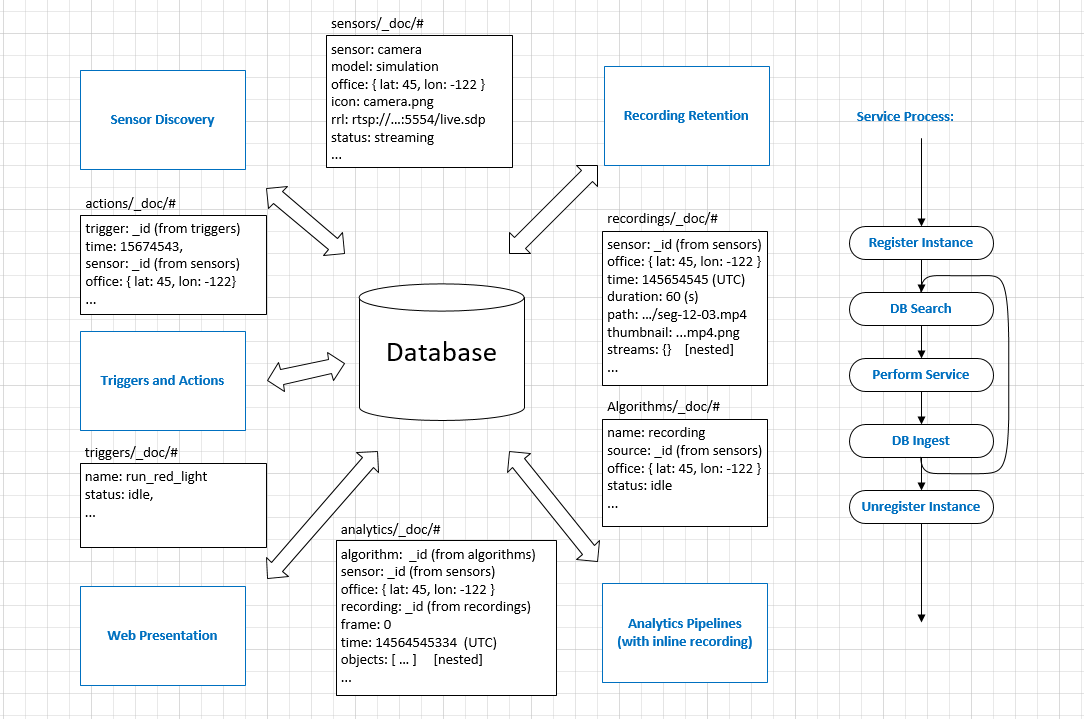
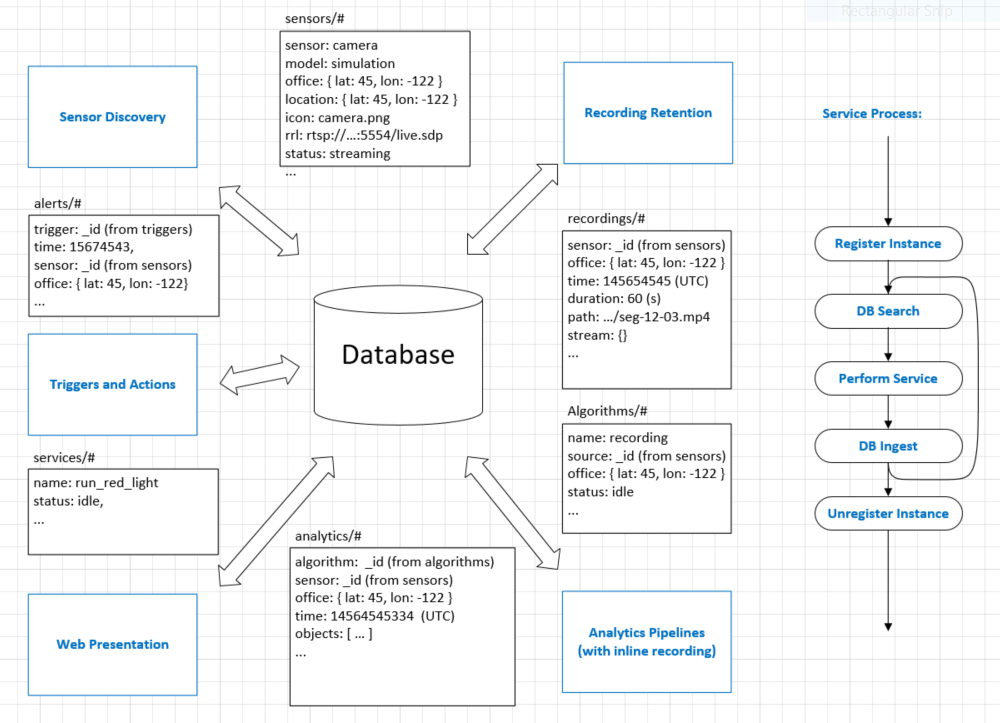
rename triggers to services so that cleanup and where-indexing can be listed

diff --git a/web/cloud/html/js/office.js b/web/cloud/html/js/office.js
@@ -40,26 +40,26 @@ $("#pg-office").on(":initpage", function(e, queries, office) {
 
     };
 
-    /* setup the trigger table */
-    var updateTrigger=function () {
+    /* setup the service table */
+    var updateService=function () {
         if (!page.is(":visible")) return;
 
-        /* fill the trigger table */
-        apiHost.search("triggers","name:*",office).then(function (data) {
-            var tbody=page.find("[trigger-table] tbody");
+        /* fill the service table */
+        apiHost.search("services","name:*",office).then(function (data) {
+            var tbody=page.find("[service-table] tbody");
             tbody.empty();
             $.each(data.response,function (i,v) {
-                var line=$("<tr><td>"+v._source.name+"</td><td>"+v._id+"</td><td>"+v._source.status+"</td></tr>");
+                var line=$("<tr><td>"+v._source.name+"</td><td>"+v._source.service+"</td><td>"+v._id+"</td><td>"+v._source.status+"</td></tr>");
                 tbody.append(line);
             });
 
             if (page.data('timer2')) clearTimeout(page.data('timer2'));
-            page.data('timer2',setTimeout(updateTrigger,settings.trigger_update()));
+            page.data('timer2',setTimeout(updateService,settings.service_update()));
         }).catch(function (e) {
             $("[hint-panel]").trigger(":error", [e.statusText]);
         });
     }; 
-    updateTrigger();
+    updateService();
 
     /* enable recording queries */
     search.data('index',index).data('office',office).data('invoke',updateAlgos).val(queries).focus().trigger($.Event("keydown",{keyCode:13}));

diff --git a/web/cloud/html/js/header.js b/web/cloud/html/js/header.js
@@ -12,9 +12,9 @@ var settings={
         if (typeof(val)!="undefined") $("#analyticsUpdate").val(val);
         return parseFloat($("#analyticsUpdate").val());
     },
-    trigger_update: function (val) {
-        if (typeof(val)!="undefined") $("#triggerUpdate").val(val);
-        return parseFloat($("#triggerUpdate").val());
+    service_update: function (val) {
+        if (typeof(val)!="undefined") $("#serviceUpdate").val(val);
+        return parseFloat($("#serviceUpdate").val());
     },
     frame_duration: function (val) {
         if (typeof(val)!="undefined") $("#frameDuration").val(val);

diff --git a/maintenance/cleanup/db_ingest.py b/maintenance/cleanup/db_ingest.py
@@ -1,0 +1,51 @@
+#!/usr/bin/python3
+
+import requests
+import json
+
+class DBIngest(object):
+    def __init__(self, index, office, host):
+        super(DBIngest,self).__init__()
+        self._host=host
+        if isinstance(office,list): office='$'+('$'.join(map(str,office)))
+        self._index=index+office
+        self._type="_doc"
+
+    def _check_error(self, r):
+        if r.status_code==200 or r.status_code==201: return
+        try:
+            reason=r.json()["error"]["reason"]
+        except:
+            r.raise_for_status()
+        raise Exception(reason)
+
+    def ingest_bulk(self, bulk, batch=500):
+        ''' save bulk data to the database
+            bulk: list of bulk data
+        '''
+        while bulk:
+            cmds=[]
+            for b in bulk[0:batch]:
+                cmds.append({"index":{"_index":self._index,"_type":self._type}})
+                cmds.append(b)
+            bulk=bulk[batch:]
+                
+            cmds="\n".join([json.dumps(x) for x in cmds])+"\n"
+            r=requests.post(self._host+"/_bulk",data=cmds,headers={"content-type":"application/x-ndjson"})
+            self._check_error(r)
+        
+    def ingest(self, info, id1=None):
+        r=requests.put(self._host+"/"+self._index+"/"+self._type+"/"+id1,json=info) if id1 else requests.post(self._host+"/"+self._index+"/"+self._type,json=info)
+        self._check_error(r)
+        return r.json()
+
+    def update(self, _id, info, version=None):
+        options={} if version is None else { "version": version }
+        r=requests.post(self._host+"/"+self._index+"/"+self._type+"/"+_id+"/_update",params=options,json={"doc":info})
+        self._check_error(r)
+        return r.json()
+
+    def delete(self, _id):
+        r=requests.delete(self._host+"/"+self._index+"/"+self._type+"/"+_id,headers={'Content-Type':'application/json'})
+        self._check_error(r)
+        return r.json()

diff --git a/maintenance/where-indexing/db_ingest.py b/maintenance/where-indexing/db_ingest.py
@@ -1,0 +1,51 @@
+#!/usr/bin/python3
+
+import requests
+import json
+
+class DBIngest(object):
+    def __init__(self, index, office, host):
+        super(DBIngest,self).__init__()
+        self._host=host
+        if isinstance(office,list): office='$'+('$'.join(map(str,office)))
+        self._index=index+office
+        self._type="_doc"
+
+    def _check_error(self, r):
+        if r.status_code==200 or r.status_code==201: return
+        try:
+            reason=r.json()["error"]["reason"]
+        except:
+            r.raise_for_status()
+        raise Exception(reason)
+
+    def ingest_bulk(self, bulk, batch=500):
+        ''' save bulk data to the database
+            bulk: list of bulk data
+        '''
+        while bulk:
+            cmds=[]
+            for b in bulk[0:batch]:
+                cmds.append({"index":{"_index":self._index,"_type":self._type}})
+                cmds.append(b)
+            bulk=bulk[batch:]
+                
+            cmds="\n".join([json.dumps(x) for x in cmds])+"\n"
+            r=requests.post(self._host+"/_bulk",data=cmds,headers={"content-type":"application/x-ndjson"})
+            self._check_error(r)
+        
+    def ingest(self, info, id1=None):
+        r=requests.put(self._host+"/"+self._index+"/"+self._type+"/"+id1,json=info) if id1 else requests.post(self._host+"/"+self._index+"/"+self._type,json=info)
+        self._check_error(r)
+        return r.json()
+
+    def update(self, _id, info, version=None):
+        options={} if version is None else { "version": version }
+        r=requests.post(self._host+"/"+self._index+"/"+self._type+"/"+_id+"/_update",params=options,json={"doc":info})
+        self._check_error(r)
+        return r.json()
+
+    def delete(self, _id):
+        r=requests.delete(self._host+"/"+self._index+"/"+self._type+"/"+_id,headers={'Content-Type':'application/json'})
+        self._check_error(r)
+        return r.json()

diff --git a/maintenance/where-indexing/index.py b/maintenance/where-indexing/index.py
@@ -1,5 +1,6 @@
 #!/usr/bin/python3
 
+from db_ingest import DBIngest
 from db_query import DBQuery
 from signal import signal, SIGTERM
 import os
@@ -13,10 +14,27 @@ update_batch=int(os.environ["UPDATE_BATCH"])
 office=list(map(float, os.environ["OFFICE"].split(",")))
 dbhost=os.environ["DBHOST"]
 
+dbs=None
+rs=None
+
 def quit_service(signum, sigframe):
+    if dbs and rs: dbs.delete(rs["_id"])
     exit(143)
 
 signal(SIGTERM, quit_service)
+dbs=DBIngest(index="services",office=office,host=dbhost)
+while True:
+    try:
+        dbs.ingest({
+            "name": "where-indexing",
+            "service": "maintanence",
+            "status": "active",
+        })
+        break
+    except Exception as e:
+        print("Exception: "+str(e), flush=True)
+        time.sleep(10)
+
 dbq=DBQuery(index=indexes[0],office=office,host=dbhost)
 dba=DBQuery(index=indexes[1],office=office,host=dbhost)
 while True:

diff --git a/maintenance/cleanup/cleanup.py b/maintenance/cleanup/cleanup.py
@@ -1,5 +1,6 @@
 #!/usr/bin/python3
 
+from db_ingest import DBIngest
 from db_query import DBQuery
 from signal import signal, SIGTERM
 import time
@@ -11,10 +12,27 @@ indexes=os.environ["INDEXES"].split(",")
 office=list(map(float, os.environ["OFFICE"].split(",")))
 dbhost=os.environ["DBHOST"]
 
+dbs=None
+rs=None
+
 def quit_service(signum, sigframe):
+    if dbs and rs: dbs.delete(rs["_id"])
     exit(143)
 
 signal(SIGTERM, quit_service)
+dbs=DBIngest(index="services",office=office,host=dbhost)
+while True:
+    try:
+        rs=dbs.ingest({
+            "name": "cleanup",
+            "service": "maintanence",
+            "status": "active",
+        })
+        break
+    except Exception as e:
+        print("Exception: "+str(e), flush=True)
+        time.sleep(10)
+
 while True: 
     time.sleep(service_interval)
 

diff --git a/trigger/health-check/check.py b/trigger/health-check/check.py
@@ -24,12 +24,13 @@ def quit_service(signum, sigframe):
 signal(SIGTERM, quit_service)
 
 # register trigger
-dbt=DBIngest(index="triggers",office=office,host=dbhost)
+dbt=DBIngest(index="services",office=office,host=dbhost)
 while True:
     try:
         rt=dbt.ingest({
             "name": "health_check",
-            "status": "processing",
+            "service": "trigger",
+            "status": "active",
         })
         break
     except Exception as e:

diff --git a/maintenance/db-init/db-init.py b/maintenance/db-init/db-init.py
@@ -104,7 +104,7 @@ settings={
             },
         },
     },
-    "triggers"+office: {
+    "services"+office: {
         "settings": {
             "index": {
                 "number_of_shards": 1,
